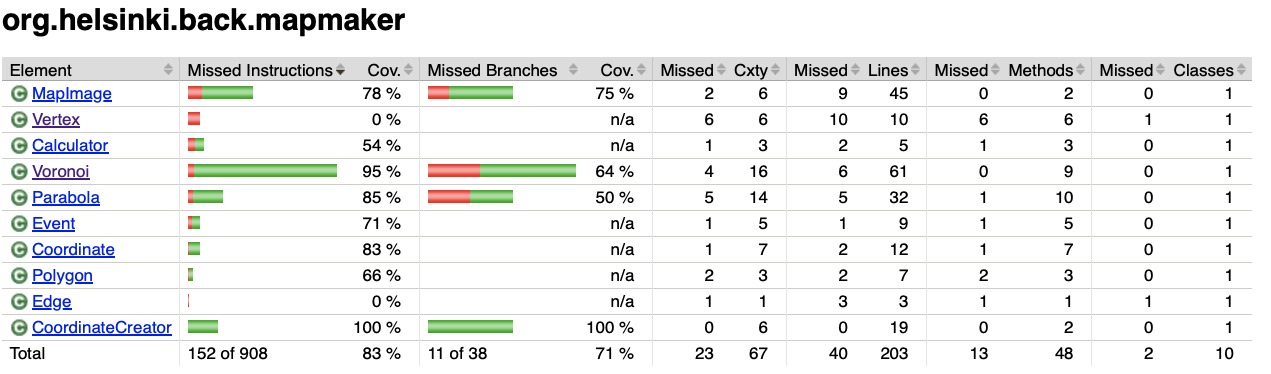
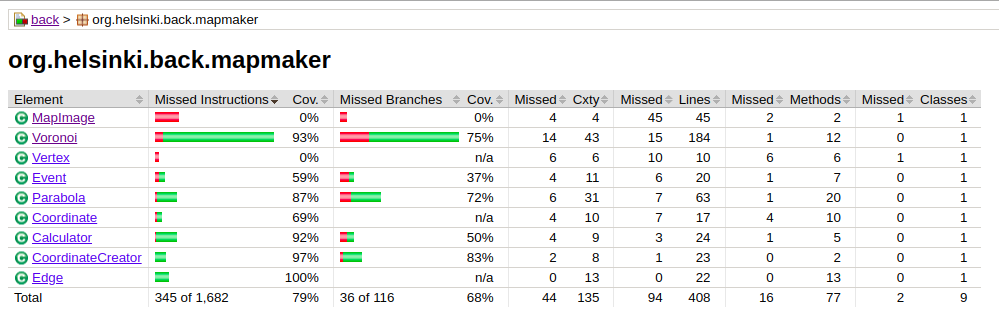
documentation

Changed region(s): [[0.0, 0.1558, 0.993, 0.9657], [0.0, 0.0, 1.0, 0.0935]]

diff --git a/docs/implementation.md b/docs/implementation.md
@@ -2,12 +2,28 @@
 
 ## Structure of the program
 
-Backend is done in Java/Spring.
+Backend is done in Java 17/Spring and uses Maven 3.9.1. Frontend is done in React.
 
-## Time and space requirements
+## Time requirements
 
-Current time for generating Voronoi diagram has been measured as 52 ms. This is not realistic, though, as much of the functionality is missing.
+Current time for generating Voronoi diagram has been measured as under 10 ms.
 
 ## Considerations for future development
 
+A Lloyd relaxation would be a logical future step.
+
 ## Sources
+
+
+[Red Blob Games: Polygon map generation, part 1](https://simblob.blogspot.com/2010/09/polygon-map-generation-part-1.html)
+
+[Wikipedia: Voronoi diagram](https://en.wikipedia.org/wiki/Voronoi_diagram)
+
+[aschlosser on github: voronoi-java](https://github.com/aschlosser/voronoi-java)
+
+[serenaz on Github: Voronoi](https://github.com/serenaz/voronoi)
+
+[Rosetta Code: Voronoi diagram](https://rosettacode.org/wiki/Voronoi_diagram)
+
+[Wikipedia: Lloyd's algorithm](https://en.wikipedia.org/wiki/Lloyd%27s_algorithm)
+

diff --git a/docs/testing.md b/docs/testing.md
@@ -15,16 +15,16 @@ The front end is currently a minimal page that only displays the image generated
 
 ## Unit testing coverage
 
-Current unit test coverage is 82%. All tests are currently testing classes unter ```/mapmaker```.
+Current unit test coverage is 79%. All tests are currently testing classes under ```/mapmaker```, since that's where the main functionality of the program is.
 
 ![Test coverage visualization](coverage1.png)
 A visualization of the test coverage in /mapmaper.
 
 ## Empirical testing
 
-![Current front page](dots.png)
-An image of the current front page display, consisting only of the seed points.
+![Current front page](diagram.png)
+An image of the current front page display.
 
 ## Test data
 
-The current test data consists of minimal cases, e.g. a 25x25-size map with three seed points. 
+The current test data consists of elementary cases, e.g. a 25x25-size map with three seed points. 
